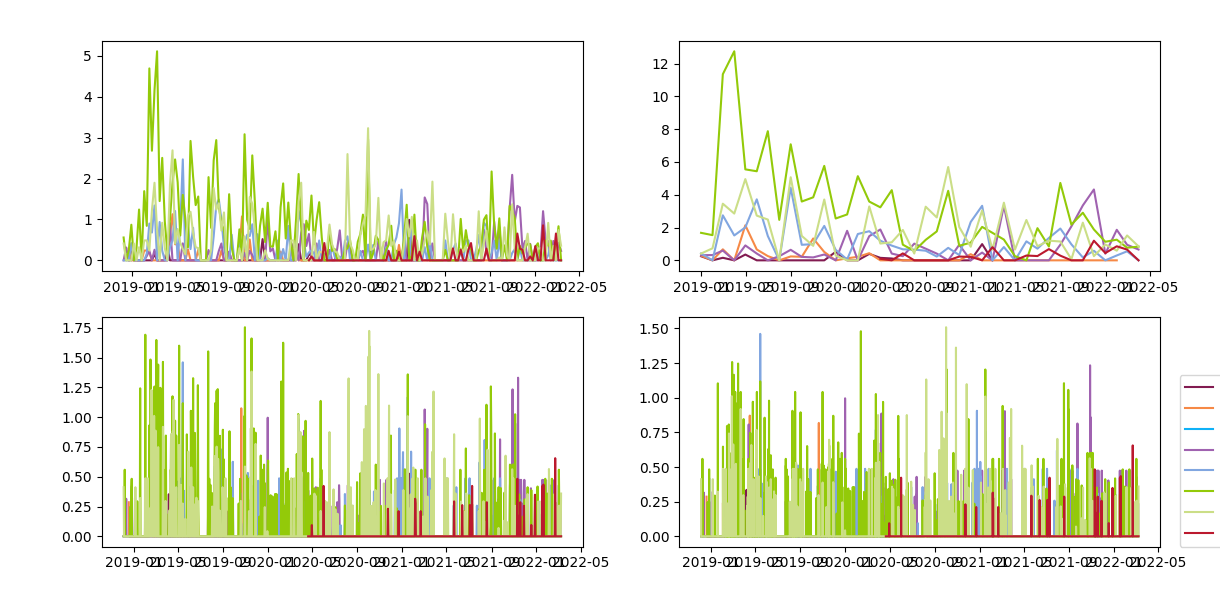
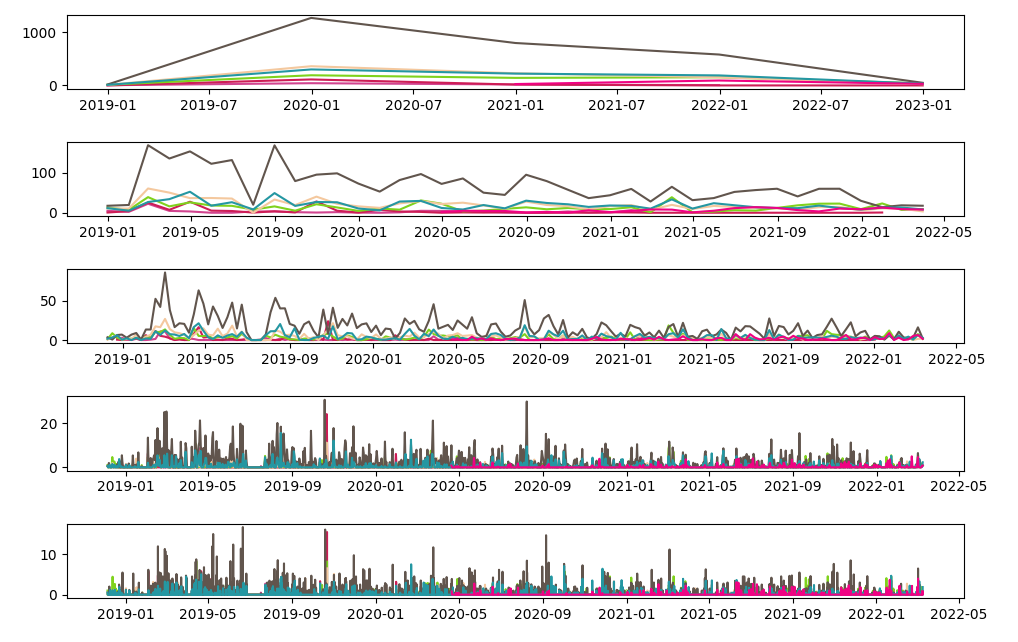
Fixes

diff --git a/app.py b/app.py
@@ -3,27 +3,22 @@ import datetime
 import numpy as np
 import pandas as pd
 import matplotlib.pyplot as plt
-from nltk.sentiment import SentimentIntensityAnalyzer
+from sentiment_analysis_spanish import sentiment_analysis
 
 
-FILE = ""
-FREQS = { 
-    'W' : (0,0),
-    'M' : (0,1),
-    'D' : (1,0),
-    'H' : (1,1),
-}
+FILE = "/path/to/file.txt"
+FREQS = [ 'Y', 'M', 'W', 'D', 'H', ]
+ANONYMIZE = True
 
 data = []
 parsed = []
-analyzer = SentimentIntensityAnalyzer()
+analyzer = sentiment_analysis.SentimentAnalysisSpanish()
 
 date_regex = r"(\d{1,2}\/\d{1,2}\/\d{1,2})"
 time_regex = r"(\d{1,2}:\d{1,2})"
 user_regex = r"(.*?)"
 text_regex = r"(.*)"
 full_regex = date_regex + " " + time_regex + " - " + user_regex + ": " + text_regex
-
 
 # READ FILE LINES
 with open(FILE, 'r') as f:
@@ -48,27 +43,24 @@ for line in parsed:
     name = index.groups()[2]
     text = index.groups()[3]
 
-    scores = analyzer.polarity_scores(line)
-    neg = scores.get('neg')
-    neu = scores.get('neu')
-    pos = scores.get('pos')
-    com = scores.get('compound')
+    score = analyzer.sentiment(line)
     
     date_time = datetime.datetime(
         day = int(date[0]), 
         month = int(date[1]), 
         year = int(date[2]) + 2000, 
         hour = int(time[0]), 
-        minute = int(time[1]))
-    data.append([date_time, name, pos, neu, neg, com])
+        minute = int(time[1])
+    )
+    data.append([date_time, name, score])
 
 # CONVERT TO DATAFRAME
 data = pd.DataFrame(data)
-data.columns =[ 'dates', 'names', 'pos', 'neu', 'neg', 'com' ]
+data.columns =[ 'dates', 'names', 'scores' ]
 data.dates = pd.to_datetime(data.dates, unit='s')
 
 # CREATE THE FIGURE
-fig, ax = plt.subplots(2, 2)
+fig, ax = plt.subplots(nrows=len(FREQS), ncols=1)
 
 # FOR NAME IN A CHAT
 names = np.unique(data.names)
@@ -77,16 +69,18 @@ for name in names:
     subset = data[data.names == name]
 
     # FOR ALL TYPES OF FREQUENCIES SETTED AT THE TOP
-    for freq, freq_ax in FREQS.items():
+    for index, freq in enumerate(FREQS):
         resample = subset.resample(freq, on='dates').sum()
-        i1 = freq_ax[0]
-        i2 = freq_ax[1]
-
         x = resample.index
-        y = resample['pos']
-        # PRINT POSITIVITY
-        ax[i1, i2].plot(x, y, label = f'{name} {freq}', color=color)
+        y = resample['scores']
+        
+        # PRINT SENTIMENT
+        label = f'{freq}' if ANONYMIZE else f'{name} {freq}'
+        ax[index].plot(x, y, label = label, color=color)
+        
+fig.legend(loc=7)
+fig.tight_layout()
+fig.subplots_adjust(right=0.75)  
 
 # DISPLAY THE GRAPH
-plt.legend(loc=(1.04,0))
 plt.show()

diff --git a/README.md b/README.md
@@ -14,7 +14,7 @@ Group Chat
 
 ![Group Chat](Graphs_Group.png "Group Chat")
 
-## Export Whatsapp Chat History
+## Export Whatsapp Chat
 
 - Go to WhatsApp
 - Go to a Chat
@@ -29,15 +29,12 @@ There are two variables:
 
 - FILE: Chat file location (absolute path)
 - FREQS: Frequencies that Pandas uses to resample the data by date-ranges ('Y' == Year, 'W' == Week, ...)
+- ANONYMIZE: Don't display names on the legends
 
 ```python
-FILE = ""
-FREQS = { 
-    'M' : (0,0),
-    'W' : (0,1),
-    'D' : (1,0),
-    'H' : (1,1),
-}
+FILE = "/path/to/file.txt"
+FREQS = [ 'Y', 'M', 'W', 'D', 'H', ]
+ANONYMIZE = True/False
 ```
 
 ## Usage
@@ -49,8 +46,8 @@ pip install -r requirements
 python3 app.py
 ```
  
-### TODO
+## Spanish Sentiment Analysis
 
-- Translate text to english to improve results
-- Translate VADER Lexicon (idk if it's possible)
-- Train a model with tweets
+[sentiment-analysis-spanish](https://github.com/sentiment-analysis-spanish/sentiment-spanish)
+
+THANKS YOU SO MUCH!! 
